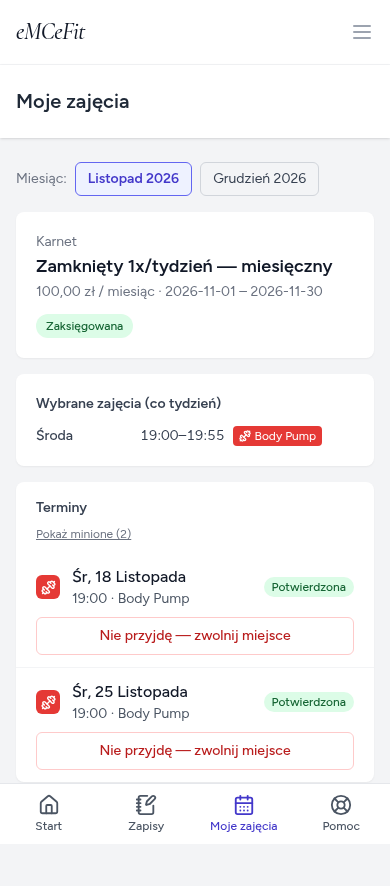
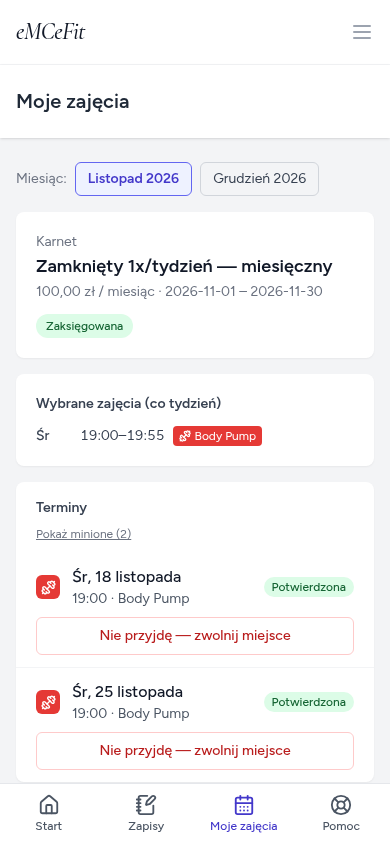
Panel: zwalnianie miejsca z ekranu startowego; krótkie dni tygodnia; przewodnik zaktualizowany

diff --git a/resources/js/Pages/Client/MyClasses.vue b/resources/js/Pages/Client/MyClasses.vue
@@ -4,7 +4,8 @@ import ClassTypeBadge from '@/Components/ClassTypeBadge.vue';
 import { readableTextColor } from '@/Utils/color';
 import { iconComponent } from '@/Utils/classTypeIcons';
 import { Head, Link, router } from '@inertiajs/vue3';
-import { computed, onMounted, onUnmounted, ref } from 'vue';
+import { useReleaseReservation } from '@/Utils/releaseReservation';
+import { computed, ref } from 'vue';
 
 const props = defineProps({
     month: { type: Object, required: true },
@@ -13,8 +14,6 @@ const props = defineProps({
     openRemaining: { type: Number, default: 0 },
     membership: { type: Object, default: null },
 });
-
-const GRACE_MINUTES = 60;
 
 // Minione terminy domyślnie schowane — na ekranie zostaje to, co przed klientką.
 const showPast = ref(false);
@@ -31,54 +30,7 @@ const changeMonth = (value) => {
     router.get(route('client.classes.index', { month: value }), {}, { preserveScroll: true });
 };
 
-// „Teraz" odświeżane co minutę — żeby okno łaski (1h) było aktualne bez przeładowania.
-const now = ref(Date.now());
-let ticker = null;
-onMounted(() => {
-    ticker = setInterval(() => (now.value = Date.now()), 60_000);
-});
-onUnmounted(() => clearInterval(ticker));
-
-const withinGracePeriod = (res) =>
-    new Date(res.starts_at).getTime() - now.value >= GRACE_MINUTES * 60_000;
-
-const cancelReservation = (res) => {
-    const inGrace = withinGracePeriod(res);
-    let question;
-    let loses;
-
-    if (res.kind === 'odrobienie') {
-        question = inGrace
-            ? 'Zwolnić miejsce na te zajęcia odrabiane? Odrobienie wróci i wybierzesz inny termin w tym miesiącu.'
-            : 'UWAGA: do zajęć ODRABIANYCH' + (res.makeup_for ? ` (za ${res.makeup_for})` : '') + ' została mniej niż godzina.\n\n' +
-              'Jeśli teraz zwolnisz miejsce, odrobienie przepadnie i nie odrobisz już tamtych zajęć.\n\n' +
-              'Na pewno zwolnić?';
-        loses = !inGrace;
-    } else if (res.kind === 'otwarty') {
-        question = inGrace
-            ? 'Zwolnić miejsce? Wejście wróci na Twój karnet.'
-            : 'Do zajęć została mniej niż godzina — po zwolnieniu wejście przepada. Zwolnić mimo to?';
-        loses = !inGrace;
-    } else {
-        question = inGrace
-            ? 'Zwolnić miejsce na te zajęcia? Otrzymasz prawo do odrobienia w tym miesiącu.'
-            : 'Zgodnie z regulaminem, zwolnienie miejsca później niż godzinę przed zajęciami NIE daje prawa do odrobienia. Zwolnić mimo to?';
-        loses = !inGrace;
-    }
-
-    if (!confirm(question)) return;
-
-    router.patch(
-        route('client.reservations.cancel', res.id),
-        loses ? { acknowledge_late: true } : {},
-        { preserveScroll: true },
-    );
-};
-
-const leaveWaitlist = (res) => {
-    if (!confirm('Wypisać Cię z listy oczekujących na te zajęcia?')) return;
-    router.patch(route('client.reservations.cancel', res.id), {}, { preserveScroll: true });
-};
+const { isLateMakeup, releaseLabel, cancelReservation, leaveWaitlist } = useReleaseReservation();
 
 const kindLabel = { odrobienie: 'odrabiasz', otwarty: 'z karnetu otwartego' };
 
@@ -199,10 +151,10 @@ const reservationBadge = {
                                 :key="i"
                                 class="flex items-center gap-2 text-sm text-gray-700"
                             >
-                                <span class="w-24 font-medium">{{ cls.weekday_label }}</span>
-                                <span class="tabular-nums">{{ cls.start_time }}–{{ cls.end_time }}</span>
+                                <span class="w-9 shrink-0 font-medium">{{ cls.weekday_label }}</span>
+                                <span class="shrink-0 whitespace-nowrap tabular-nums">{{ cls.start_time }}–{{ cls.end_time }}</span>
                                 <span
-                                    class="inline-flex items-center gap-1 rounded px-1.5 py-0.5 text-xs"
+                                    class="inline-flex min-w-0 items-center gap-1 truncate rounded px-1.5 py-0.5 text-xs"
                                     :style="{
                                         backgroundColor: cls.type_color,
                                         color: readableTextColor(cls.type_color),
@@ -263,12 +215,12 @@ const reservationBadge = {
                                     v-if="res.cancellable"
                                     type="button"
                                     class="mt-2 w-full rounded-md border py-2 text-sm font-medium"
-                                    :class="res.kind === 'odrobienie' && !withinGracePeriod(res)
+                                    :class="isLateMakeup(res)
                                         ? 'border-amber-300 bg-amber-50 text-amber-800 hover:bg-amber-100'
                                         : 'border-red-200 text-red-700 hover:bg-red-50'"
                                     @click="cancelReservation(res)"
                                 >
-                                    {{ res.kind === 'odrobienie' && !withinGracePeriod(res) ? 'Rezygnuję z odrabiania — odrobienie przepadnie' : 'Nie przyjdę — zwolnij miejsce' }}
+                                    {{ releaseLabel(res) }}
                                 </button>
                                 <button
                                     v-if="res.leavable"

diff --git a/resources/js/Pages/Client/Dashboard.vue b/resources/js/Pages/Client/Dashboard.vue
@@ -2,6 +2,7 @@
 import AuthenticatedLayout from '@/Layouts/AuthenticatedLayout.vue';
 import ClassTypeBadge from '@/Components/ClassTypeBadge.vue';
 import { Head, Link } from '@inertiajs/vue3';
+import { useReleaseReservation } from '@/Utils/releaseReservation';
 
 defineProps({
     firstName: { type: String, default: '' },
@@ -11,6 +12,8 @@ defineProps({
     makeupCredits: { type: Number, default: 0 },
     openRemaining: { type: Number, default: 0 },
 });
+
+const { isLateMakeup, releaseLabel, cancelReservation, leaveWaitlist } = useReleaseReservation();
 
 const statusBadge = {
     potwierdzona: 'bg-green-100 text-green-800',
@@ -35,6 +38,12 @@ const statusBadge = {
                 >
                     {{ $page.props.flash.success }}
                 </div>
+                <div
+                    v-if="$page.props.flash?.error || $page.props.errors?.reservation"
+                    class="rounded-md bg-red-50 p-4 text-sm text-red-800"
+                >
+                    {{ $page.props.flash?.error || $page.props.errors?.reservation }}
+                </div>
 
                 <!-- Zapisy na kolejny miesiąc — najważniejsza akcja, gdy są otwarte -->
                 <Link
@@ -51,24 +60,45 @@ const statusBadge = {
                     <h3 class="text-base font-semibold text-gray-800">Twoje najbliższe zajęcia</h3>
 
                     <ul v-if="upcoming.length" class="mt-3 divide-y divide-gray-100">
-                        <li v-for="res in upcoming" :key="res.id" class="flex items-center gap-3 py-3">
-                            <ClassTypeBadge :color="res.type_color" :icon="res.type_icon" />
-                            <div class="min-w-0 flex-1">
-                                <div class="font-medium text-gray-900">{{ res.date }}</div>
-                                <div class="text-sm text-gray-600">
-                                    {{ res.start_time }}–{{ res.end_time }} · {{ res.type_name }}
+                        <li v-for="res in upcoming" :key="res.id" class="py-3">
+                            <div class="flex items-center gap-3">
+                                <ClassTypeBadge :color="res.type_color" :icon="res.type_icon" />
+                                <div class="min-w-0 flex-1">
+                                    <div class="font-medium text-gray-900">{{ res.date }}</div>
+                                    <div class="text-sm text-gray-600">
+                                        {{ res.start_time }}–{{ res.end_time }} · {{ res.type_name }}
+                                    </div>
+                                    <div v-if="res.makeup_for" class="text-xs text-indigo-700">
+                                        odrabiasz za: {{ res.makeup_for }}
+                                    </div>
                                 </div>
-                                <div v-if="res.makeup_for" class="text-xs text-indigo-700">
-                                    odrabiasz za: {{ res.makeup_for }}
-                                </div>
+                                <span
+                                    v-if="res.status !== 'potwierdzona'"
+                                    class="shrink-0 rounded-full px-2 py-0.5 text-xs font-medium"
+                                    :class="statusBadge[res.status]"
+                                >
+                                    {{ res.status_label }}
+                                </span>
                             </div>
-                            <span
-                                v-if="res.status !== 'potwierdzona'"
-                                class="shrink-0 rounded-full px-2 py-0.5 text-xs font-medium"
-                                :class="statusBadge[res.status]"
+                            <button
+                                v-if="res.cancellable"
+                                type="button"
+                                class="mt-2 w-full rounded-md border py-2 text-sm font-medium"
+                                :class="isLateMakeup(res)
+                                    ? 'border-amber-300 bg-amber-50 text-amber-800 hover:bg-amber-100'
+                                    : 'border-red-200 text-red-700 hover:bg-red-50'"
+                                @click="cancelReservation(res)"
                             >
-                                {{ res.status_label }}
-                            </span>
+                                {{ releaseLabel(res) }}
+                            </button>
+                            <button
+                                v-if="res.leavable"
+                                type="button"
+                                class="mt-2 w-full rounded-md border border-gray-300 py-2 text-sm font-medium text-gray-700 hover:bg-gray-50"
+                                @click="leaveWaitlist(res)"
+                            >
+                                Wypisz mnie z listy oczekujących
+                            </button>
                         </li>
                     </ul>
                     <p v-else class="mt-2 text-sm text-gray-500">Nie masz zaplanowanych zajęć.</p>

diff --git a/resources/js/Utils/releaseReservation.js b/resources/js/Utils/releaseReservation.js
@@ -1,0 +1,61 @@
+import { router } from '@inertiajs/vue3';
+import { onMounted, onUnmounted, ref } from 'vue';
+
+const GRACE_MINUTES = 60;
+
+/**
+ * Zwalnianie miejsca i wypisywanie z listy oczekujących — wspólne dla panelu i „Moich zajęć”.
+ * „Teraz” odświeżane co minutę, żeby okno 1 h było aktualne bez przeładowania.
+ */
+export function useReleaseReservation() {
+    const now = ref(Date.now());
+    let ticker = null;
+    onMounted(() => {
+        ticker = setInterval(() => (now.value = Date.now()), 60_000);
+    });
+    onUnmounted(() => clearInterval(ticker));
+
+    const withinGracePeriod = (res) =>
+        new Date(res.starts_at).getTime() - now.value >= GRACE_MINUTES * 60_000;
+
+    const isLateMakeup = (res) => res.kind === 'odrobienie' && !withinGracePeriod(res);
+
+    const releaseLabel = (res) =>
+        isLateMakeup(res) ? 'Rezygnuję z odrabiania — odrobienie przepadnie' : 'Nie przyjdę — zwolnij miejsce';
+
+    const cancelReservation = (res) => {
+        const inGrace = withinGracePeriod(res);
+        let question;
+
+        if (res.kind === 'odrobienie') {
+            question = inGrace
+                ? 'Zwolnić miejsce na te zajęcia odrabiane? Odrobienie wróci i wybierzesz inny termin w tym miesiącu.'
+                : 'UWAGA: do zajęć ODRABIANYCH' + (res.makeup_for ? ` (za ${res.makeup_for})` : '') + ' została mniej niż godzina.\n\n' +
+                  'Jeśli teraz zwolnisz miejsce, odrobienie przepadnie i nie odrobisz już tamtych zajęć.\n\n' +
+                  'Na pewno zwolnić?';
+        } else if (res.kind === 'otwarty') {
+            question = inGrace
+                ? 'Zwolnić miejsce? Wejście wróci na Twój karnet.'
+                : 'Do zajęć została mniej niż godzina — po zwolnieniu wejście przepada. Zwolnić mimo to?';
+        } else {
+            question = inGrace
+                ? 'Zwolnić miejsce na te zajęcia? Otrzymasz prawo do odrobienia w tym miesiącu.'
+                : 'Zgodnie z regulaminem, zwolnienie miejsca później niż godzinę przed zajęciami NIE daje prawa do odrobienia. Zwolnić mimo to?';
+        }
+
+        if (!confirm(question)) return;
+
+        router.patch(
+            route('client.reservations.cancel', res.id),
+            inGrace ? {} : { acknowledge_late: true },
+            { preserveScroll: true },
+        );
+    };
+
+    const leaveWaitlist = (res) => {
+        if (!confirm('Wypisać Cię z listy oczekujących na te zajęcia?')) return;
+        router.patch(route('client.reservations.cancel', res.id), {}, { preserveScroll: true });
+    };
+
+    return { withinGracePeriod, isLateMakeup, releaseLabel, cancelReservation, leaveWaitlist };
+}

diff --git a/resources/js/Pages/HowItWorks.vue b/resources/js/Pages/HowItWorks.vue
@@ -18,7 +18,7 @@ const steps = [
     },
     {
         title: 'Twój panel',
-        text: 'Na początku widzisz najbliższe zajęcia i swój karnet. Na dole ekranu masz menu: Start, Zapisy, Moje zajęcia i Pomoc.',
+        text: 'Na początku widzisz najbliższe zajęcia i swój karnet. Pod każdymi zajęciami jest przycisk „Nie przyjdę — zwolnij miejsce”. Na dole ekranu masz menu: Start, Zapisy, Moje zajęcia i Pomoc.',
         img: '3-panel.png',
     },
     {
@@ -33,12 +33,12 @@ const steps = [
     },
     {
         title: 'Nie możesz przyjść?',
-        text: 'W „Moich zajęciach” kliknij „Nie przyjdę — zwolnij miejsce”. Jeśli zrobisz to co najmniej godzinę przed zajęciami, możesz je odrobić w tym samym miesiącu.',
+        text: 'Kliknij „Nie przyjdę — zwolnij miejsce” na ekranie startowym albo w „Moich zajęciach”. Jeśli zrobisz to co najmniej godzinę przed zajęciami, możesz je odrobić w tym samym miesiącu.',
         img: '6-moje-zajecia.png',
     },
     {
         title: 'Odrabianie',
-        text: 'Kliknij „Odrób zajęcia” i wybierz dowolne zajęcia z wolnym miejscem. Gdy zajęcia są pełne, dopisz się do listy oczekujących — jeśli ktoś zwolni miejsce, wskoczysz automatycznie i dostaniesz maila.',
+        text: 'Kliknij „Odrób zajęcia” i wybierz dowolne zajęcia z wolnym miejscem. Gdy zajęcia są pełne, dopisz się do listy oczekujących — jeśli ktoś zwolni miejsce, wskoczysz automatycznie i dostaniesz maila. Zmiana planów? Zwolnij zajęcia odrabiane co najmniej godzinę przed — odrobienie wróci i wybierzesz inny termin do końca miesiąca.',
         img: '7-wolne-miejsca.png',
     },
     {

diff --git a/app/Http/Controllers/Client/DashboardController.php b/app/Http/Controllers/Client/DashboardController.php
@@ -3,6 +3,7 @@
 namespace App\Http\Controllers\Client;
 
 use App\Domain\Memberships\Models\Membership;
+use App\Domain\Reservations\Enums\ReservationKind;
 use App\Domain\Reservations\Enums\ReservationStatus;
 use App\Domain\Reservations\FreeSpots;
 use App\Domain\Reservations\Models\EnrollmentWindow;
@@ -58,6 +59,10 @@ class DashboardController extends Controller
                 'status' => $r->status->value,
                 'status_label' => $r->status->label(),
                 'makeup_for' => $r->makeupSourceLabel(),
+                'starts_at' => $r->startsAt()->toIso8601String(),
+                'kind' => $r->kind->value,
+                'cancellable' => $r->status === ReservationStatus::Confirmed,
+                'leavable' => $r->status === ReservationStatus::Waitlist && $r->kind !== ReservationKind::Fixed,
             ])
             ->values();
 

diff --git a/tests/Feature/Client/DashboardTest.php b/tests/Feature/Client/DashboardTest.php
@@ -112,7 +112,11 @@ class DashboardTest extends TestCase
                 ->where('firstName', 'Anna')
                 ->has('upcoming', 3)
                 ->where('upcoming.0.status', 'waitlist')
+                ->where('upcoming.0.cancellable', false)
                 ->where('upcoming.1.end_time', '19:55')
+                ->where('upcoming.1.cancellable', true)
+                ->where('upcoming.1.kind', 'stala')
+                ->where('upcoming.1.starts_at', fn (string $v) => str_starts_with($v, '2026-11-18T19:00:00'))
                 ->where('current.type_name', 'Zamknięty 1x/tydzień')
                 ->where('current.paid', true)
                 ->where('next.value', '2026-12')

diff --git a/app/Http/Controllers/Client/MyClassesController.php b/app/Http/Controllers/Client/MyClassesController.php
@@ -68,7 +68,7 @@ class MyClassesController extends Controller
                 // Prompt 16d: kolejność dni tygodnia od poniedziałku
                 ->sortBy(fn (ClassGroup $group): string => sprintf('%d %s', $group->weekday->value, $group->start_time))
                 ->map(fn (ClassGroup $group): array => [
-                    'weekday_label' => $group->weekday->label(),
+                    'weekday_label' => $group->weekday->shortLabel(),
                     'start_time' => $group->startsAt(),
                     'end_time' => $group->endsAt(),
                     'type_name' => $group->classType->name,
